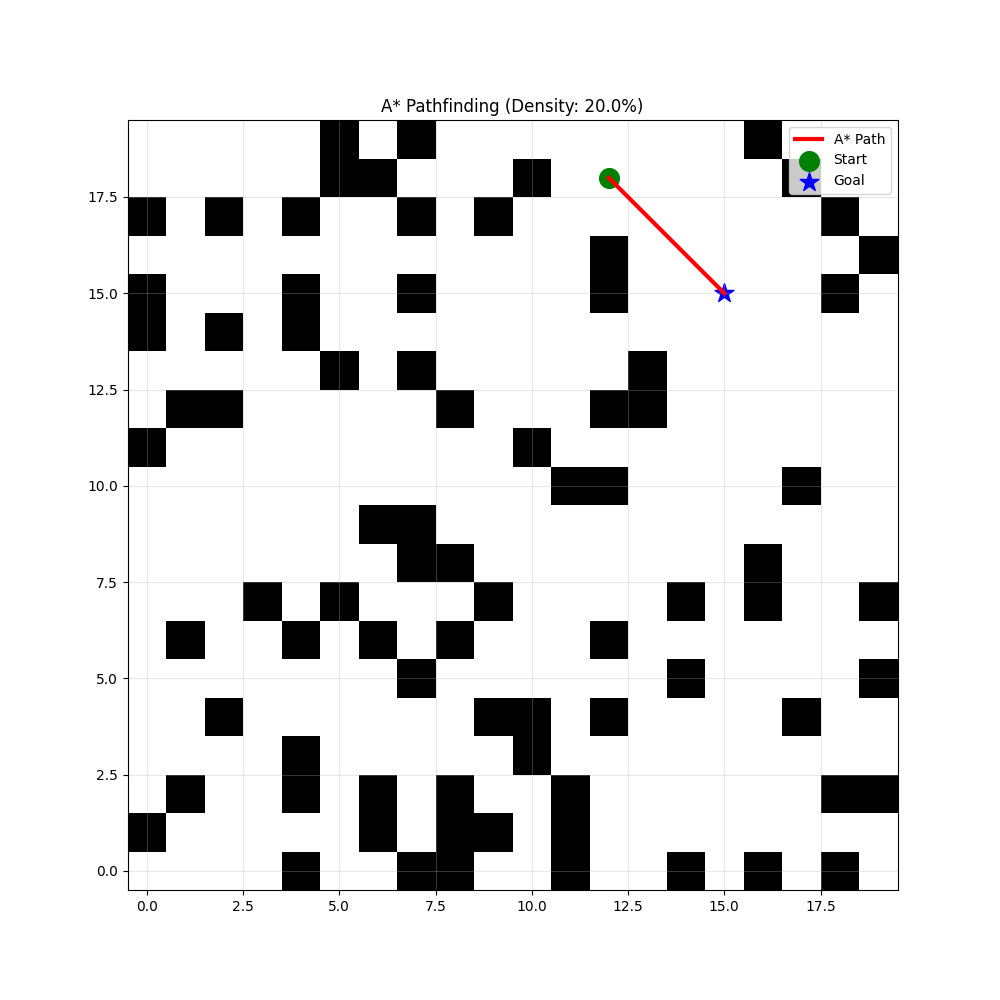
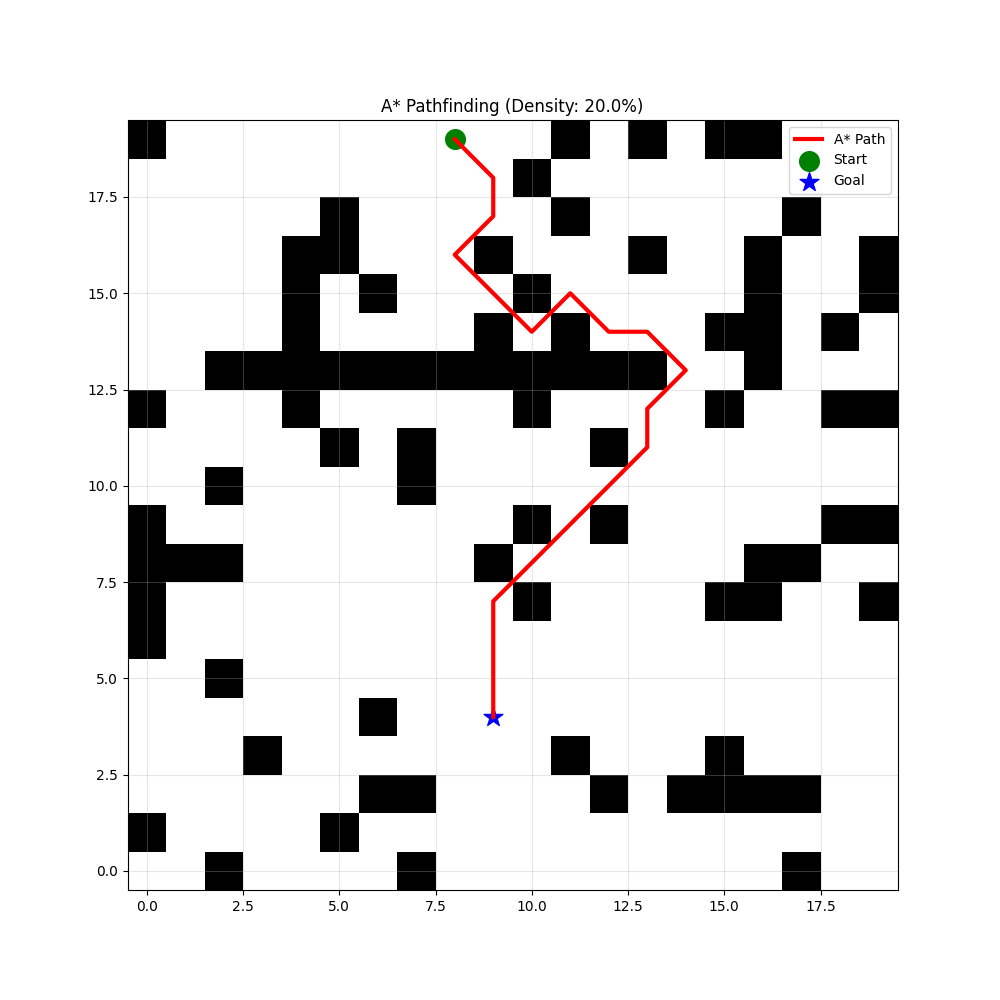
Rename project from Jetson to AutoNAV AI.

diff --git a/templates/index.html b/templates/index.html
@@ -182,7 +182,7 @@
 
 <body>
     <div class="sidebar">
-        <h1>JETSON AI NAV 🚁</h1>
+        <h1>AutoNAV AI 🚁</h1>
 
         <div class="card">
             <h3>Environment Overrides</h3>
@@ -231,7 +231,7 @@
     <div id="viewport">
         <div class="hud hud-left">
             <span style="color:var(--accent)">OMNI-SENSE: ACTIVE</span><br>
-            PLATFORM: JETSON AGX ORIN<br>
+            PLATFORM: AutoNAV AI Platform<br>
             PROXIMITY: <span id="hud-proximity" style="color:#f8fafc">SAFE</span><br>
             AESTHETIC: HIGH-FIDELITY
         </div>

diff --git a/README.md b/README.md
@@ -1,11 +1,11 @@
 # 🚁 AutoNAV-AI: Autonomous Drone Navigation & SLAM
 
-`NVIDIA Jetson` `Webots` `SLAM` `Autonomous Navigation` `A* Pathfinding` `PID Control`
+`AutoNAV AI` `Webots` `SLAM` `Autonomous Navigation` `A* Pathfinding` `PID Control`
 
 ---
 
 ## 📄 Project Overview
-AutoNAV-AI is a high-performance autonomous drone navigation system designed for GPS-denied environments. It integrates RGB-D vision, 2D LiDAR, and onboard computation (NVIDIA Jetson) to perform real-time SLAM, obstacle avoidance, and path planning. The system utilizes the **Webots Robotics Simulator** for accurate physics simulation and modular control.
+AutoNAV-AI is a high-performance autonomous drone navigation system designed for GPS-denied environments. It integrates RGB-D vision, 2D LiDAR, and onboard computation (AutoNAV AI) to perform real-time SLAM, obstacle avoidance, and path planning. The system utilizes the **Webots Robotics Simulator** for accurate physics simulation and modular control.
 
 ### Key Capabilities
 - **GPS-Denied Navigation**: Operates in tunnels, underground, or indoor environments without relying on satellite signals.
